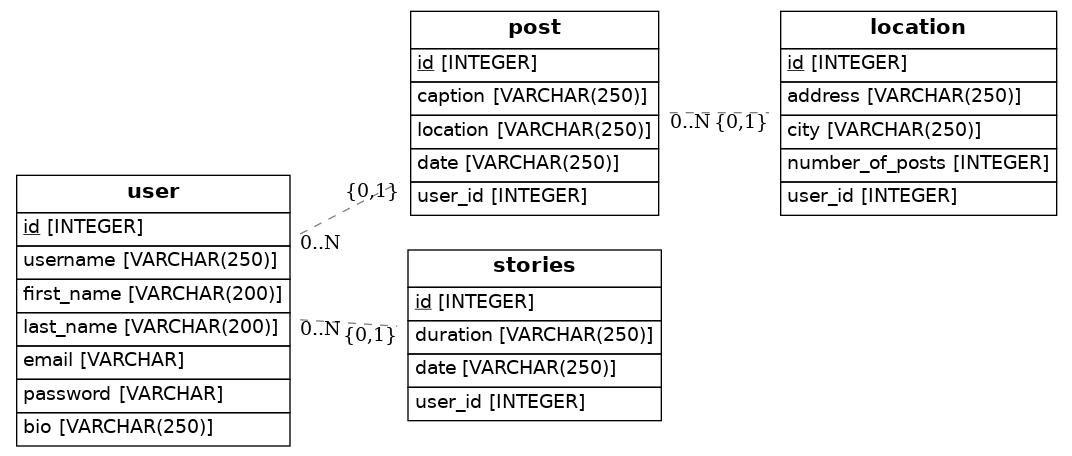
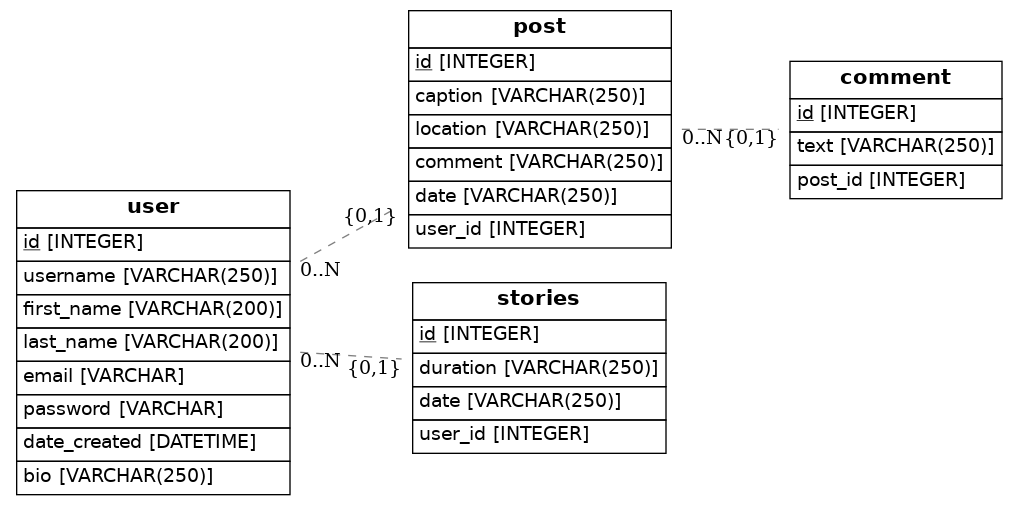
added date_time

Changed region(s): [[0.0, 0.3684, 0.6706, 0.9825], [0.3048, 0.0, 1.0, 0.4912]]

diff --git a/src/models.py b/src/models.py
@@ -1,6 +1,6 @@
 import os
 import sys
-from sqlalchemy import Column, ForeignKey, Integer, String
+from sqlalchemy import Column, ForeignKey, Integer, String, DateTime
 from sqlalchemy.ext.declarative import declarative_base
 from sqlalchemy.orm import relationship
 from sqlalchemy import create_engine
@@ -16,6 +16,7 @@ class User(Base):
     last_name = Column(String(200), nullable=False)
     email = Column(String, nullable=False, unique=True)
     password = Column(String, nullable=False, unique=True)
+    date_created = Column(DateTime())
     bio = Column(String(250), nullable=True)
 
 class Post(Base):
@@ -23,6 +24,7 @@ class Post(Base):
     id = Column(Integer, primary_key=True)
     caption = Column(String(250))
     location = Column(String(250))
+    comment = Column(String(250))
     date = Column(String(250), nullable=False)
     user_id = Column(Integer, ForeignKey('user.id'))
     user = relationship(User)
@@ -35,13 +37,11 @@ class Story(Base):
     user_id = Column(Integer, ForeignKey('user.id'))
     user = relationship(User)
 
-class Location(Base):
-    __tablename__ = 'location'
+class Comment(Base):
+    __tablename__ = 'comment'
     id = Column(Integer, primary_key=True)
-    address = Column(String(250))
-    city = Column(String(250))
-    number_of_posts = Column(Integer)
-    user_id = Column(Integer, ForeignKey('post.id'))
+    text = Column(String(250))
+    post_id = Column(Integer, ForeignKey('post.id'))
     post = relationship(Post)
 
     def to_dict(self):
